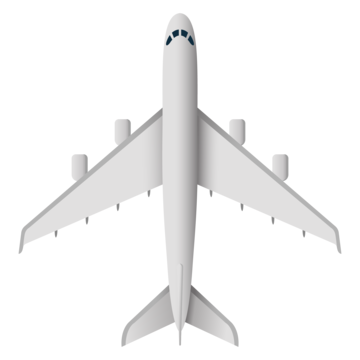
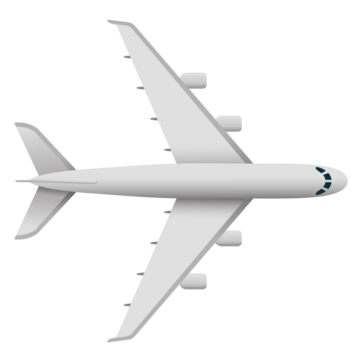
fix transport visuals

Changed region(s): [[0.0306, 0.0306, 0.9778, 0.9778]]

diff --git a/src/utilities/Transport.java b/src/utilities/Transport.java
@@ -2,6 +2,8 @@ package utilities;
 
 import javax.swing.*;
 import java.awt.*;
+import java.awt.geom.AffineTransform;
+import java.awt.image.BufferedImage;
 
 public class Transport {
 	private String type; // "Airline", "Ship", "Train"
@@ -9,44 +11,110 @@ public class Transport {
 	private Country destination;
 	private JLabel transportIcon;
 	private Timer animationTimer;
+	private JPanel mapPanel;
+	private int totalSteps;
+	private int currentStep;
+	private double stepX, stepY;
+
+	private static final int ICON_SIZE = 30; // Desired icon size (width and height)
+	private ImageIcon originalIcon;
 
 	public Transport(String type, Country origin, Country destination, JPanel mapPanel) {
 		this.type = type;
 		this.origin = origin;
 		this.destination = destination;
+		this.mapPanel = mapPanel;
 
-		// Create transport icon
-		transportIcon = new JLabel(new ImageIcon("images/" + type.toLowerCase() + ".png")); // Ensure the icons exist
-		transportIcon.setBounds(origin.getX(), origin.getY(), 40, 40);
+		// Load and scale the original icon
+		originalIcon = scaleIcon(new ImageIcon("images/" + type.toLowerCase() + ".png"), ICON_SIZE, ICON_SIZE);
+		transportIcon = new JLabel(originalIcon);
+		transportIcon.setBounds(origin.getX(), origin.getY(), ICON_SIZE, ICON_SIZE);
+		transportIcon.setVisible(false); // Initially hidden
 		mapPanel.add(transportIcon);
 		mapPanel.revalidate();
 		mapPanel.repaint();
+	}
 
-		// Animation logic
-		animationTimer = new Timer(30, e -> moveIcon());
+	private ImageIcon scaleIcon(ImageIcon originalIcon, int width, int height) {
+		// Scale the image to fit within the specified dimensions
+		Image scaledImage = originalIcon.getImage().getScaledInstance(width, height, Image.SCALE_SMOOTH);
+		return new ImageIcon(scaledImage);
+	}
+
+	private ImageIcon rotateIcon(ImageIcon icon, double angle) {
+		// Rotate the icon image
+		Image originalImage = icon.getImage();
+		int w = originalImage.getWidth(null);
+		int h = originalImage.getHeight(null);
+
+		BufferedImage rotatedImage = new BufferedImage(w, h, BufferedImage.TYPE_INT_ARGB);
+		Graphics2D g2d = rotatedImage.createGraphics();
+
+		// Apply rotation around the center of the image
+		AffineTransform transform = new AffineTransform();
+		transform.translate(w / 2.0, h / 2.0);
+		transform.rotate(angle);
+		transform.translate(-w / 2.0, -h / 2.0);
+
+		g2d.setTransform(transform);
+		g2d.drawImage(originalImage, 0, 0, null);
+		g2d.dispose();
+
+		return new ImageIcon(rotatedImage);
 	}
 
 	public void startTransport() {
+		// Calculate distance and duration
+		int dx = destination.getX() - origin.getX();
+		int dy = destination.getY() - origin.getY();
+		double distance = Math.sqrt(dx * dx + dy * dy);
+
+		totalSteps = (int) (distance * 2);
+		currentStep = 0;
+
+		stepX = (double) dx / totalSteps;
+		stepY = (double) dy / totalSteps;
+
+		// Calculate angle for rotation (in radians)
+		double angle = Math.atan2(dy, dx);
+
+		// Set rotated icon and initial position
+		transportIcon.setIcon(rotateIcon(originalIcon, angle));
+		transportIcon.setLocation(origin.getX(), origin.getY());
+		transportIcon.setVisible(true);
+
+		// Start the animation timer
+		animationTimer = new Timer(10, e -> animateTransport());
 		animationTimer.start();
 	}
 
-	private void moveIcon() {
-		Point currentPos = transportIcon.getLocation();
-		Point targetPos = new Point(destination.getX(), destination.getY());
+	private void animateTransport() {
+		currentStep++;
+		int newX = (int) (origin.getX() + stepX * currentStep);
+		int newY = (int) (origin.getY() + stepY * currentStep);
+		transportIcon.setLocation(newX, newY);
 
-		// Calculate the distance and direction
-		int dx = (int) ((targetPos.x - currentPos.x) * 0.05);
-		int dy = (int) ((targetPos.y - currentPos.y) * 0.05);
+		mapPanel.revalidate();
+		mapPanel.repaint();
 
-		if (Math.abs(currentPos.x - targetPos.x) < 5 && Math.abs(currentPos.y - targetPos.y) < 5) {
-			// Stop animation when destination is reached
-			transportIcon.setLocation(targetPos);
-			animationTimer.stop();
-			spreadInfection();
-		} else {
-			// Update position
-			transportIcon.setLocation(currentPos.x + dx, currentPos.y + dy);
+		if (currentStep >= totalSteps) {
+			stopAnimation();
 		}
+	}
+
+	private void stopAnimation() {
+		if (animationTimer != null) {
+			animationTimer.stop();
+			animationTimer = null;
+		}
+
+		transportIcon.setLocation(destination.getX(), destination.getY());
+		transportIcon.setVisible(false);
+		transportIcon.setLocation(origin.getX(), origin.getY());
+		mapPanel.revalidate();
+		mapPanel.repaint();
+
+		spreadInfection();
 	}
 
 	private void spreadInfection() {
